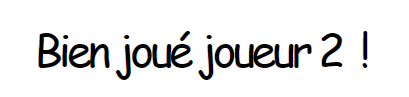
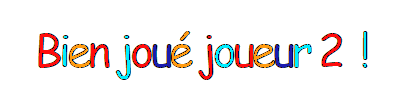
messages colorés

diff --git a/src/graphics.c b/src/graphics.c
@@ -56,15 +56,20 @@ int is_victory(game_t * game){
 //teste la victoire
 int draw_victory(ui_t * ui, game_t * game){
 
-    int player_win = game->win ;
-    
+    int player_win = 1; //game->win ;
+    SDL_Rect drawvic = {650, 200, 300, 100};
+
     if (player_win==1){
-        
+        SDL_RenderCopy(ui->renderer, ui->victory[0], NULL, &drawvic);
+
     } else if (player_win==2){
+        SDL_RenderCopy(ui->renderer, ui->victory[1], NULL, &drawvic);
 
     } else if (player_win==3){
+        SDL_RenderCopy(ui->renderer, ui->victory[2], NULL, &drawvic);
 
     } else if (player_win==4){
+        SDL_RenderCopy(ui->renderer, ui->victory[3], NULL, &drawvic);
 
     }
 
@@ -168,7 +173,9 @@ void draw_logo(ui_t *ui)
 
 // Affiche tout les éléments du jeu.
 void draw(ui_t *ui, game_t *game)
-{
+{    
+    game->win=is_victory(game);
+
     if (ui->in_pause)
     {
         // Affiche le menu pause
@@ -183,12 +190,10 @@ void draw(ui_t *ui, game_t *game)
         draw_draw_card(ui, game);
     }
 
-    game->win=is_victory(game);
-
-    if (game->win != 0)
+    if (game->win != 0 ||true)
     {
-        draw_confetti(ui);
         draw_victory(ui, game);
+        draw_confetti(ui);
     }
 
     // Affichage
